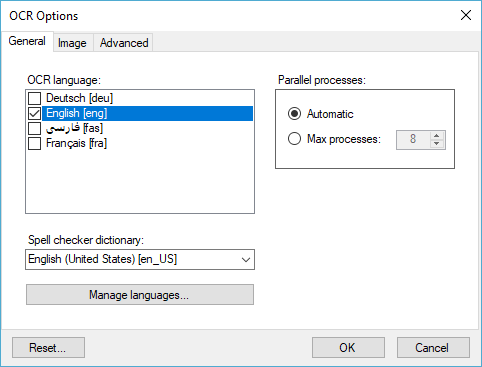
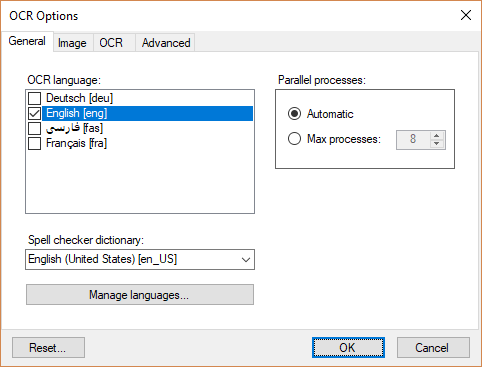
Version 1.3.0

diff --git a/README.md b/README.md
@@ -246,6 +246,8 @@ button.
 Various options that control how the OCR is performed can be set from the
 dialog accessible via the Options... button on the OCR dialog.
 
+### General Tab
+
 On the General tab, you can select OCR and spelling languages as well as 
 the number of parallel processes that can be used to accelerate OCR of 
 multi-page documents.
@@ -269,6 +271,8 @@ Selection of multiple languages will be reflected on the OCR dialog
 
 ![](media/image16.png)
 
+### Image Tab
+
 The Image tab displays a few experimental image enhancement options for
 dealing with more complex documents. Depending on the source images, these
 options may or may not affect the accuracy of the OCR data. More options
@@ -283,12 +287,54 @@ choices.
 
 ![](media/image17.png)
 
+### OCR Tab
+The OCR tab controls how the pages are processed through the OCR engine and
+has options in saving the processed files in the PDF format. 
+
+![](media/image18.png)
+
+The type of the OCR performed depends on the source document format:
+
+- **Image only** applies to PDF source documents that may have both image 
+and text components. This option will preserve the existing text and OCR
+only image components embedded in the source PDF. 
+
+- **Full page** will igone existing text components in PDF files and 
+apply OCR to a fully rasterized image of the PDF source document. For image
+source documents, this is the only option. Even for a PDF document with both 
+text and images, you may want to perform a full OCR depending on the 
+application. For instance, there might be invisible text on the PDF page 
+that will be eliminated by this method. Full page is often slower than the
+images only option for vector PDF files.
+
+The save format of OCR output is always a PDF page. The type of the page
+can be selected using one of the options below:
+
+- **Vector PDF** is only available for PDF source files that are processed
+using the images only OCR option. The full fidelity of the source PDF is
+retained and existing text is merged with hidden OCR text.
+
+- **Searchable image PDF** is a rasterized PDF page with the text hidden
+behind the image. This option enables you to control the size of the file
+by selection the image resolution and color depth.
+
+- **Text only PDF** uses a visible font to display the recognized text
+on a PDF page. The text is formatted and placed in roughly its original 
+location to preserve the page layout. This option will produce the smallest
+output file by dropping all graphical components from the source file.
+
+The fonts available to save text only PDF files depends on whether you 
+select to embed the font into the target PDF file. If font is not embedded,
+then you only use the standard type 1 fonts that are supported by all PDF
+readers. Embedded fonts will make the size of the PDF larger.
+
+### Advanced Tab
 The Advanced tab uses regular expressions to post process OCR data and make
 certain substitutions based on patterns detected in the OCR data. The two
 included rules try to detect and correct common OCR mistakes with currency
 amounts that are in US format. These expressions are for illustration only.
 
-![](media/image18.png)
+![](media/image19.png)
 
 
 ## Technical Discussion on Searchable PDF Files
@@ -322,7 +368,7 @@ word boundaries.
 The General tab on the options dialog allows setting of fonts, colors 
 and borders for rendering images and text.
 
-![](media/image19.png)
+![](media/image20.png)
 
 ## PDF Options
 You may use the PDF tab on the options dialog to select parameters that
@@ -331,12 +377,12 @@ PDF files that conform to the PDF/A standard for archiving. You may also
 choose to save PDF files encrypted with a password. You may only use one
 of these options as PDF/A does not allow encryption.
 
-![](media/image20.png)
+![](media/image21.png)
 
 
 <br/><br/>
 
-![](media/image21.png)
+![](media/image22.png)
 
 
 # More from Opait Software
